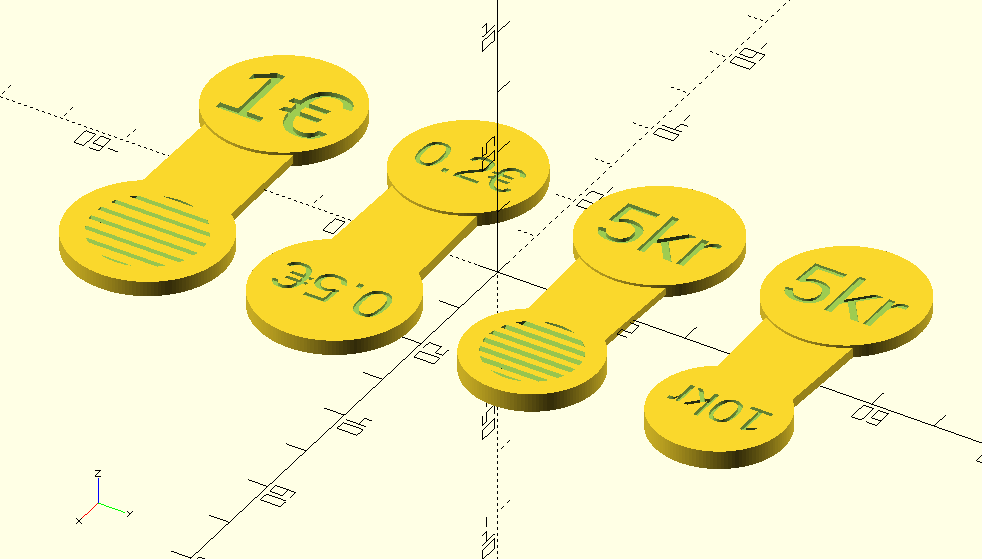
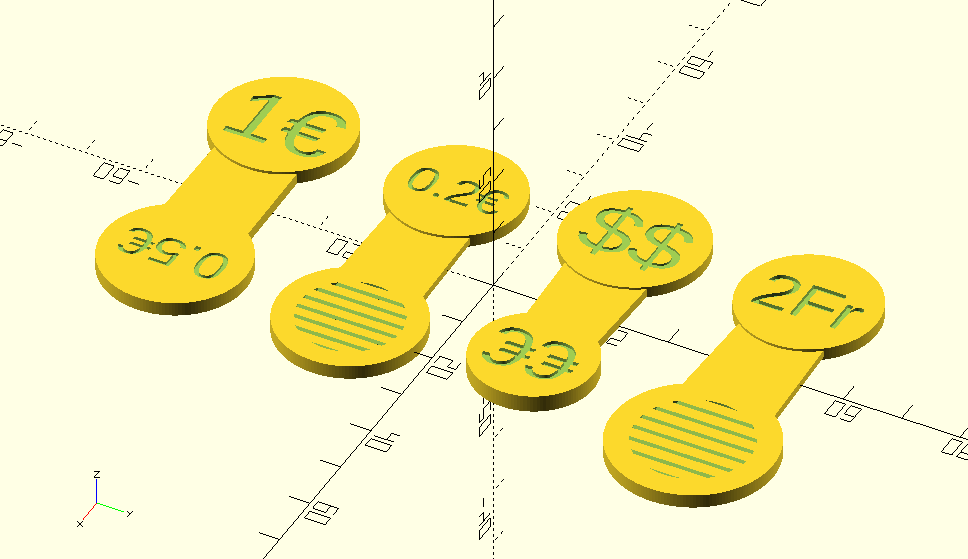
Minor chnages.

diff --git a/trolley_token/parametric_trolley_token_demo.md b/trolley_token/parametric_trolley_token_demo.md
@@ -5,25 +5,16 @@ The file `parametric_trolley_token.scad` can be used as an OpenSCAD library to g
 ## Usage:
 
 ```
-// Coins dimension variables
-// c1t="5kr";		[coin 1 text], enter "" for no value
-// c1d=23.75;		[coin 1 diameter]
-// c1h=1.95;		[coin 1 heigth (thickness)]
-// c2t="10kr";		[coin 2 text], enter "" for no value
-// c2d=20.5;		[coin 2 diameter]
-// c2h=2.9; 		[coin 2 heigth (thickness)]
-
-// module calls demo
 translate([0, 15, 0])
-    trolley_token(c1h, c2h, c1d, c2d, c1t, c2t);
+    trolley_token(string1 = "$$", string1 = "€€",);
 translate([0, 45, 0])
-    trolley_token(c1h, c2h, c1d, c2d, c1t, c2t, fdm);
+    trolley_token(2.15, 2.35, 23.2, 27.4, "2Fr", "5Fr", true);
 translate([0, -15, 0])
-    trolley_token(2.14, 2.38, 22.25, 24.25, "0.2€", "0.5€", fdm);
+    trolley_token(2.14, 2.38, 22.25, 24.25, "0.2€", "0.5€", true);
 translate([0, -45, 0])
-    trolley_token(2.33, 2.38, 23.25, 24.25, "1€", "0.5€", sla);
+    trolley_token(2.33, 2.38, 23.25, 24.25, "1€", "0.5€", flase);
 ```
 
-## Preview:
+## Rendering:
 
 ![Parametric trolley token generator preview](images/parametric_trolley_token_demo.png)

diff --git a/README.md b/README.md
@@ -1,7 +1,7 @@
 # Libraries, modules, or scripts related to OpenSCAD 
 
-This is an individual git repository not affiliated to [OpenSCAD](http://www.openscad.org/) where you will find some some utilities that I create and could potentially be of use to the community.
+This is an individual git repository (not affiliated to [OpenSCAD](http://www.openscad.org/)) where you will find some some utilities that I create and could potentially be of use to the community.
 
 Each directory contains a small project with its instructions if necessary.
 
-If you are looking for the official OpenSCAD git repository please visit [https://github.com/openscad/openscad/](https://github.com/openscad/openscad/).
+If you are looking for the official OpenSCAD git repository, please visit [https://github.com/openscad/openscad/](https://github.com/openscad/openscad/).

diff --git a/ikea_skadis_pegboard_accessories/ikea_skadis_demo.md b/ikea_skadis_pegboard_accessories/ikea_skadis_demo.md
@@ -2,6 +2,8 @@
 
 The file `ikea_skadis.scad` can be used as an OpenSCAD library to generate accessories for the [IKEA Skådis pegboard](https://duckduckgo.com/?q=%22IKEA+Sk%C3%A5dis+pegboard%22&t=hk&ia=web).
 
+## Usage:
+
 ```
 // Curved hooks demo
 skadis_curved_hook(fullfill = false);
@@ -100,3 +102,7 @@ translate([0, 235, 0]) skadis_bits_serie(h = 18, d = 10, step = 2, n = 6, facets
 ```
 
 ![Ikea Skådis bits serie](images/IkeaSkadisBitsSerie.png)
+
+## Photographs of some 3D printed accessories:
+
+![3D printed Ikea Skådis accessories](images/IkeaSkadis3dPrintedAccessories.jpg)
